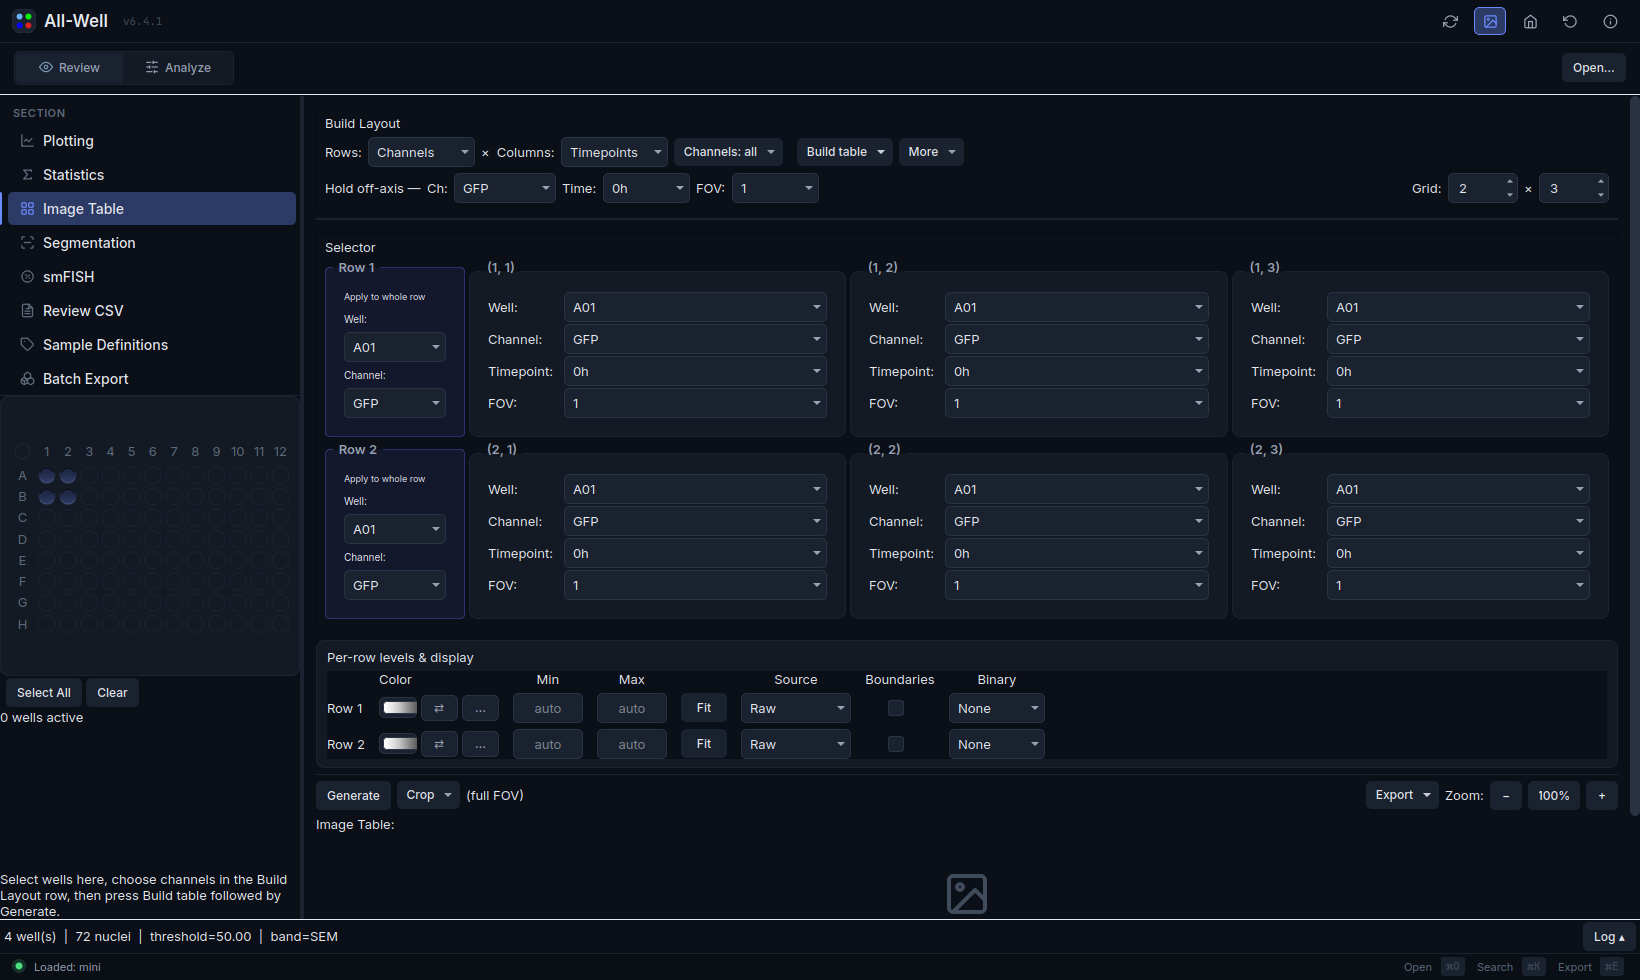
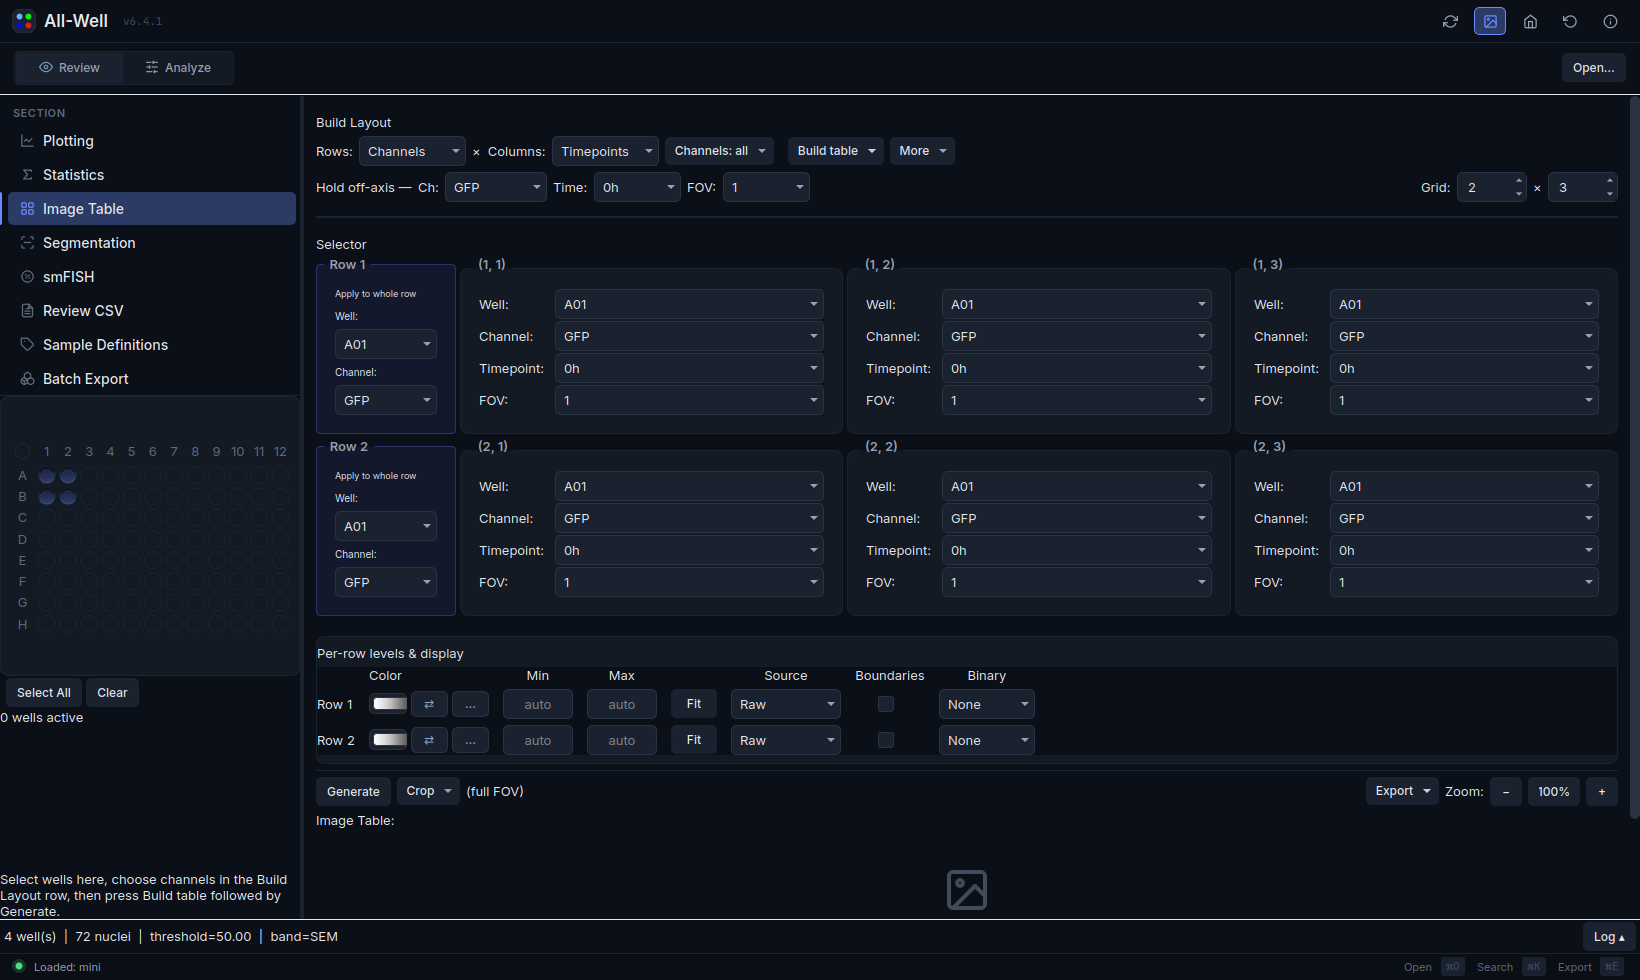
Image Table: flatten section cards so content aligns at the 12px frame
The Build Layout / Selector / Per-row panels were StyledPanel cards with 8-10px
internal padding on top of the scroll's 12px, so their content sat ~8px further
in than every other tab. Remove the panel borders and zero the horizontal
padding — Image Table content now starts at the same 12px as the rest.

diff --git a/well_viewer/features/image_table/tab_view.py b/well_viewer/features/image_table/tab_view.py
@@ -109,9 +109,9 @@ def build_image_table_tab(ctx, parent: QWidget) -> None:
     # to render.
     builder = QFrame(inner)
     builder.setObjectName("ImageTableSelector")
-    builder.setFrameShape(QFrame.StyledPanel)
+    builder.setFrameShape(QFrame.NoFrame)
     bv = QVBoxLayout(builder)
-    bv.setContentsMargins(8, 6, 8, 8)
+    bv.setContentsMargins(0, 6, 0, 8)
     bv.setSpacing(6)
 
     build_title = QLabel("Build Layout", builder)
@@ -261,9 +261,9 @@ def build_image_table_tab(ctx, parent: QWidget) -> None:
     # the global-options strip above and the LUT row below.
     selector_box = QFrame(inner)
     selector_box.setObjectName("ImageTableSelector")
-    selector_box.setFrameShape(QFrame.StyledPanel)
+    selector_box.setFrameShape(QFrame.NoFrame)
     sb_layout = QVBoxLayout(selector_box)
-    sb_layout.setContentsMargins(8, 6, 8, 8)
+    sb_layout.setContentsMargins(0, 6, 0, 8)
     sb_layout.setSpacing(4)
 
     selector_lbl = QLabel("Selector", selector_box)
@@ -284,8 +284,9 @@ def build_image_table_tab(ctx, parent: QWidget) -> None:
     # min/max + Fit, and the Top-hat / Boundaries / Binary display toggles.
     lut_outer = QFrame(inner)
     lut_outer.setObjectName("Panel")
+    lut_outer.setFrameShape(QFrame.NoFrame)
     lut_outer_layout = QVBoxLayout(lut_outer)
-    lut_outer_layout.setContentsMargins(10, 8, 10, 8)
+    lut_outer_layout.setContentsMargins(0, 8, 0, 8)
     lut_outer_layout.setSpacing(6)
 
     lut_lbl = QLabel("Per-row levels & display", lut_outer)
